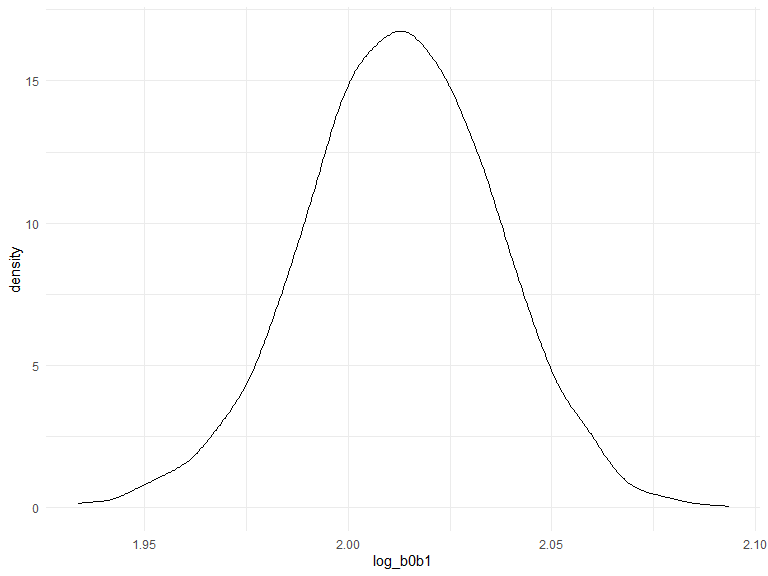
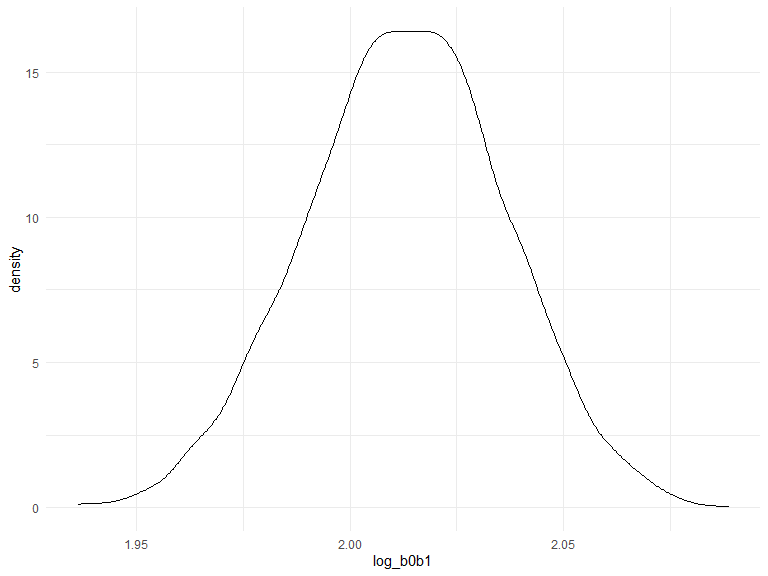
some editings

diff --git a/p8105_hw6_yc3883.md b/p8105_hw6_yc3883.md
@@ -144,9 +144,9 @@ model_1 %>%
     ## # A tibble: 3 x 5
     ##   term        estimate std.error statistic   p.value
     ##   <chr>          <dbl>     <dbl>     <dbl>     <dbl>
-    ## 1 (Intercept)  -6114.     108.       -56.4 0        
-    ## 2 bhead          148.       3.87      38.3 8.81e-269
-    ## 3 blength         85.1      2.32      36.7 7.14e-250
+    ## 1 (Intercept)  -6021.     109.       -55.5 0        
+    ## 2 bhead          145.       3.92      37.0 2.20e-253
+    ## 3 blength         85.5      2.32      36.8 1.72e-250
 
 ``` r
 model_2 %>% 
@@ -157,9 +157,9 @@ model_2 %>%
     ## # A tibble: 3 x 5
     ##   term        estimate std.error statistic   p.value
     ##   <chr>          <dbl>     <dbl>     <dbl>     <dbl>
-    ## 1 (Intercept)  -5199.     122.       -42.7 1.50e-321
-    ## 2 bhead          218.       3.76      58.0 0        
-    ## 3 gaweeks         24.6      1.93      12.7 2.06e- 36
+    ## 1 (Intercept)  -5154.     123.       -42.0 5.28e-312
+    ## 2 bhead          219.       3.78      57.8 0        
+    ## 3 gaweeks         23.0      1.91      12.1 7.96e- 33
 
 Comparing model\_1 and model\_2, model\_1 has a lower cross-validated
 prediction error. Also, the two predictors in model\_1 show a stronger
@@ -300,7 +300,7 @@ quantile(rs_est$r.squared, probs = c(0.025, 0.975))
 ```
 
     ##      2.5%     97.5% 
-    ## 0.8938556 0.9268260
+    ## 0.8943058 0.9272037
 
 ``` r
 ggp_rs_est = 
@@ -313,9 +313,9 @@ ggp_rs_est
 
 <img src="p8105_hw6_yc3883_files/figure-gfm/unnamed-chunk-10-1.png" width="90%" />
 
-The distribution of estimated r^2 has a mean of 0.9114124, which
+The distribution of estimated r^2 has a mean of 0.9116419, which
 represents a overrall strong association between “tmax” and “tmin”. The
-standard deviation of the distribution is 0.0083791.
+standard deviation of the distribution is 0.0084432.
 
 ## Problem 2 (c)
 
@@ -343,7 +343,7 @@ quantile(log_est$log_b0b1, probs = c(0.025, 0.975))
 ```
 
     ##     2.5%    97.5% 
-    ## 1.964538 2.058527
+    ## 1.966280 2.058018
 
 ``` r
 ggp_log_est = 
@@ -356,7 +356,7 @@ ggp_log_est
 
 <img src="p8105_hw6_yc3883_files/figure-gfm/unnamed-chunk-11-1.png" width="90%" />
 
-The distribution of estimated log(β0∗β1) has a mean of 2.0127064. The
-standard deviation of the distribution is 0.023617. This distribution is
-may be more approach normal distribution compared with the estimated r^2
-distribution, which has a little bit shift to right.
+The distribution of estimated log(β0∗β1) has a mean of 2.0130477. The
+standard deviation of the distribution is 0.0233174. This distribution
+may be more approaching to a normal distribution compared with the
+estimated r^2 distribution, which has a little bit shift to right.
